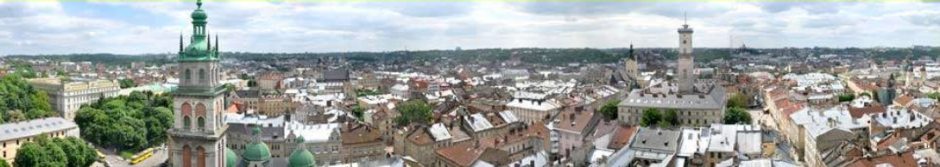
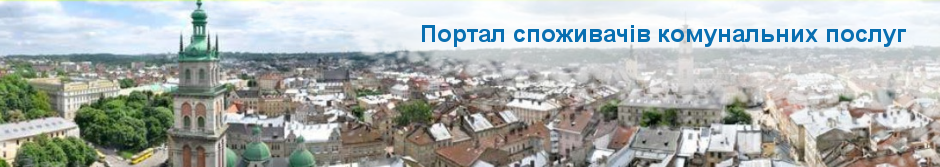
some layout changes

diff --git a/app/assets/stylesheets/application.css b/app/assets/stylesheets/application.css
@@ -26,23 +26,10 @@
   */
 #logo {
   margin-top: -60px;
-  min-height: 130px;
+  height: 130px;
+  overflow: hidden;
   background: url('/assets/lmr.png') 0 0 no-repeat;
   text-align: right;
-}
-#logo #advert{
-  color: #585D92;
-  font-family: 'Comfortaa', cursive;
-  font-size: 26px;
-  font-weight: normal;
-  margin: 20px 20px 0 0;
-}
-#logo #advert a{
-  color: #585D92;
-}
-#logo #advert a:hover{
-  text-decoration: none;
-  color: #585D92;
 }
 
 .clearfix, .clear {
@@ -102,6 +89,7 @@ ul.ui-autocomplete {
 
 .navbar ul.nav {
   margin: 0px;
+  font-size: 16px;
 }
 
 .navbar li.divider-vertical {
@@ -131,4 +119,11 @@ table.table.table-striped thead tr th {
 footer .span12{
   background-color: #cdced8;
   padding: 20px 20px 10px 0;
+}
+#title_block {
+ margin: 0 20px;
+}
+
+#title_block h1{
+  font-size: 20px;
 }

diff --git a/app/assets/stylesheets/cerulean.css b/app/assets/stylesheets/cerulean.css
@@ -3363,7 +3363,7 @@ input[type="submit"].btn.btn-mini {
 }
 .navbar {
   overflow: visible;
-  margin-bottom: 20px;
+  margin-bottom: 0px;
   color: #f5f5f5;
   *position: relative;
   *z-index: 2;
@@ -3381,9 +3381,9 @@ input[type="submit"].btn.btn-mini {
   background-repeat: repeat-x;
   filter: progid:DXImageTransform.Microsoft.gradient(startColorstr='#ff54b4eb', endColorstr='#ff2fa4e7', GradientType=0);
   border: 1px solid #1684c2;
-  -webkit-border-radius: 4px;
-  -moz-border-radius: 4px;
-  border-radius: 4px;
+  -webkit-border-radius: 0px;
+  -moz-border-radius: 0px;
+  border-radius: 0px;
   -webkit-box-shadow: 0 1px 4px rgba(0, 0, 0, 0.065);
   -moz-box-shadow: 0 1px 4px rgba(0, 0, 0, 0.065);
   box-shadow: 0 1px 4px rgba(0, 0, 0, 0.065);

diff --git a/app/assets/stylesheets/navigation.sass b/app/assets/stylesheets/navigation.sass
@@ -9,7 +9,7 @@
   h1.title
     float: left
   .admin_actions 
-    float: right  
+    float: none  
     margin-top: 20px
   .user_actions 
     float: right  

diff --git a/app/assets/stylesheets/home.css.sass b/app/assets/stylesheets/home.css.sass
@@ -1,6 +1,9 @@
 body
   font:
     size: 12px
+.navbar
+  margin-bottom: 20px
+
 #main_new_of_the_day
   line-height: 16px
   font-style: Arial

diff --git a/app/assets/stylesheets/admin/admin.sass b/app/assets/stylesheets/admin/admin.sass
@@ -14,6 +14,7 @@ fieldset
     right: 10px
 
 ul.nav.nav-tabs
+  padding-top: 20px
   li
     a
       padding-left: 7px
